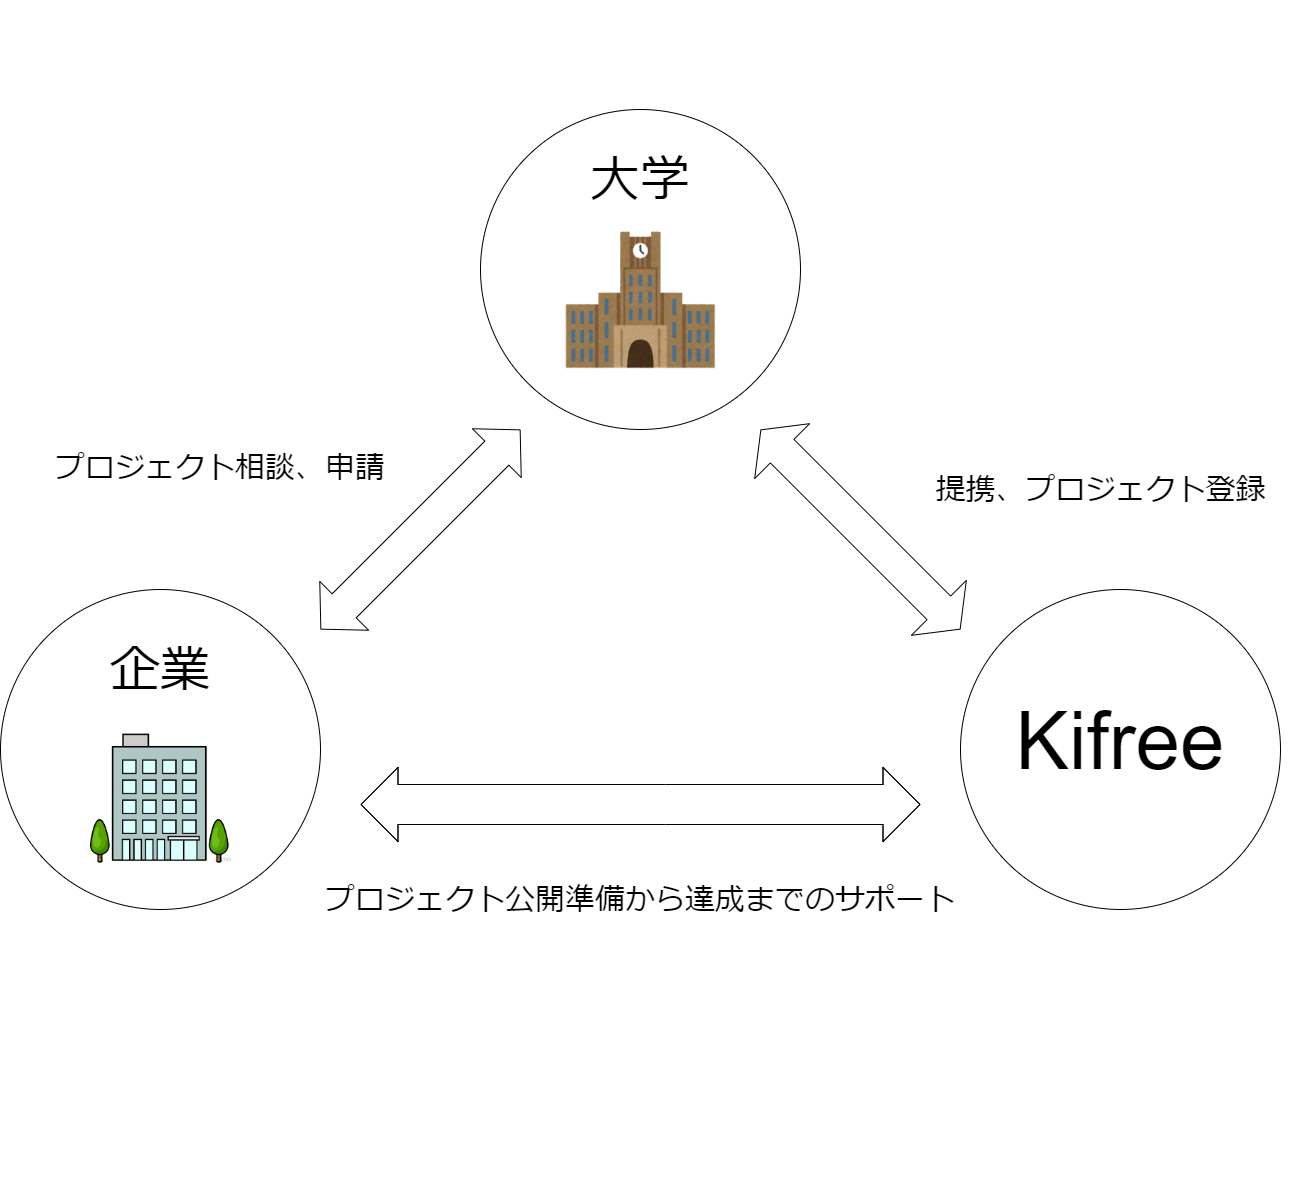
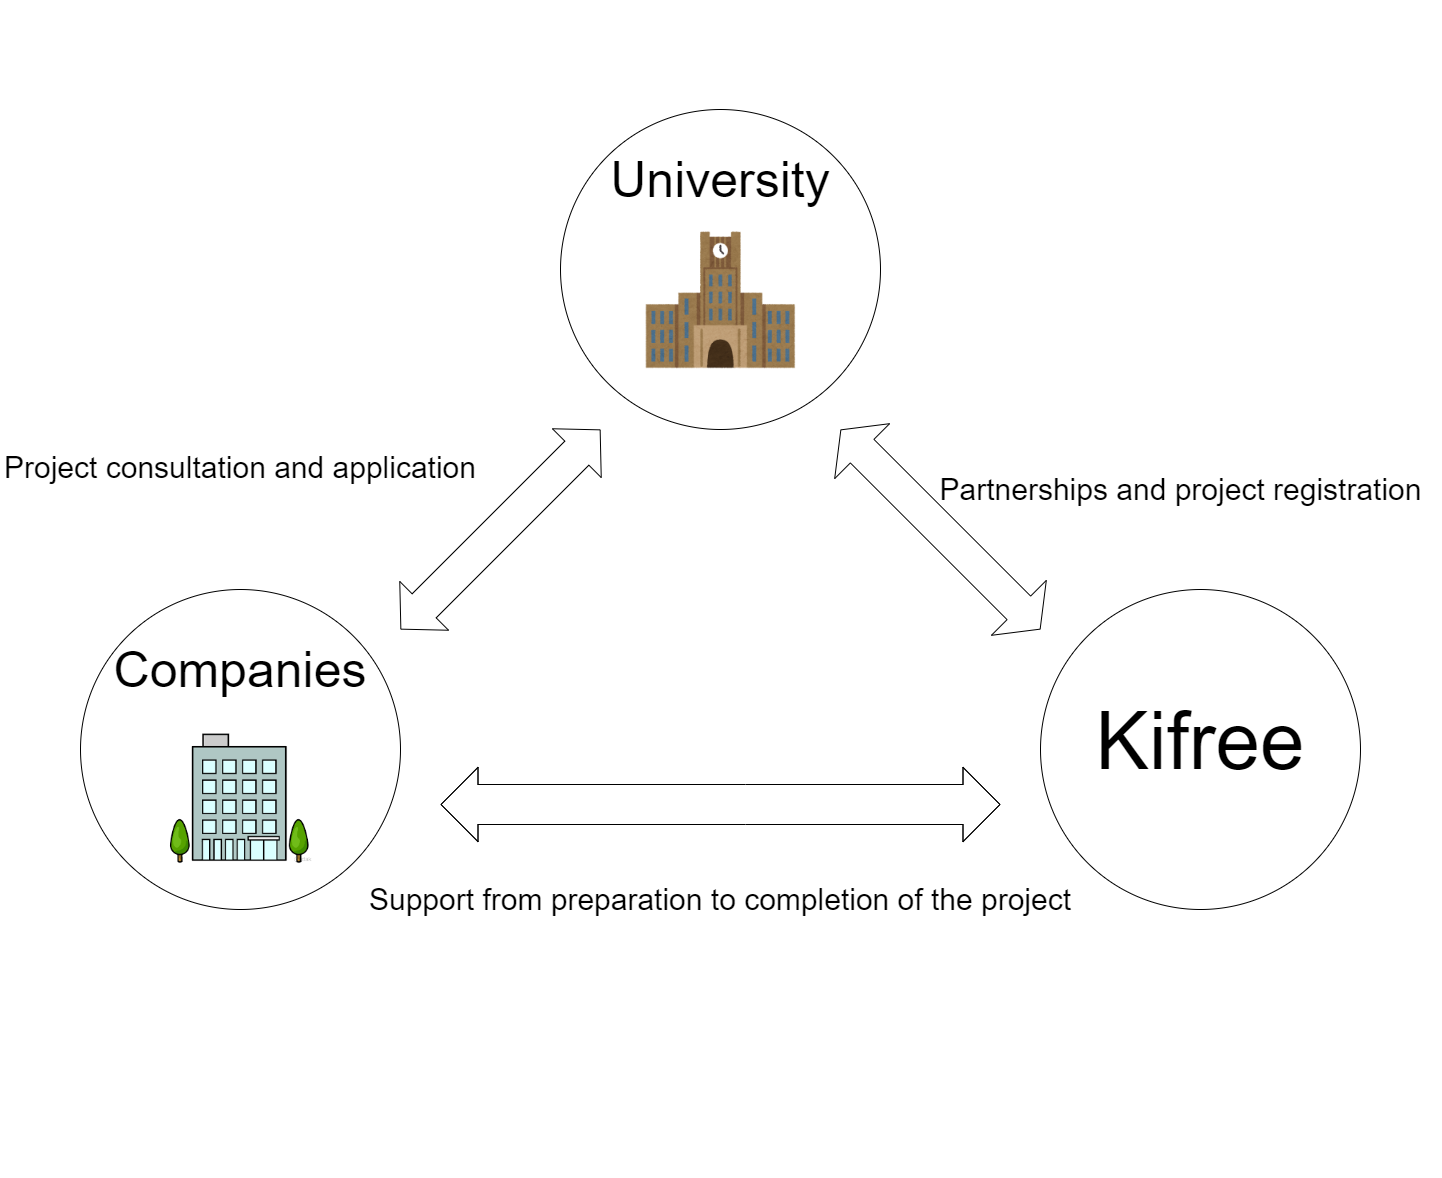
Add files via upload

diff --git a/index.html b/index.html
@@ -53,9 +53,9 @@
       <h1 class="page-title">Kifree</h1>
       <h2>
       <p>～Raise hand to deliver your feelings～</p>
-      <p>リアルタイムで人をつなぐ</p>
+      <p>Connecting people in real time</p>
       </h2>
-      <a href="#home2" class="btn-circle-fishy">Kifreeとは</a>
+      <a href="#home2" class="btn-circle-fishy">What is Kifree?</a>
 
 
 
@@ -66,22 +66,22 @@
     <div class="home-content wrapper">
     <div id="1">
       <h2 id="text-title"><a name="Kifreeとは">
-        <a class="button" href="#index">Kifreeとは？</a></a></h2>
+        <a class="button" href="#index">What is Kifree?</a></a></h2>
       <script src="index.js"></script>
 <h3 id="text2">
-助けを必要とする人は"アプリ一つで"本当に必要なモノを必要な時に、必要な量を求めることができる。
+People who need help can ask for the things they really need, when they need them, and in the quantities they need, with just one app.
 <br><br><br>
-助けることができる人は、”アプリ一つで”本当に必要なモノの情報を知ることができる。
+Those who can help will be able to get information on what they really need "with just one app.
 <br><br><br>
-そして、”アプリ一つで”支援ができる。
+And you can help them "with just one app.
 <br><br><br>
-変化する状況が”アプリ一つで”リアルタイムで確認できる。
+You can check the changing situation in real time "with just one app".
 <br><br><br>
-バランスが崩れた時も、アプリが自動で最適化
+The app automatically optimizes itself even when the balance is off.
 <br><br><br>
-人と人の繋がりが世界を救う時代のパイオニア
+Pioneering an era in which people-to-people connections will save the world
 <br><br><br>
-<p id="itiskifree">それが・・・『Kifree』</p>
+<p id="itiskifree">That is... "Kifree".</p>
 
 </h3>
 
@@ -91,7 +91,7 @@
 <div id="2">
  <div id="home3" class="big-bg">
    <p class="e">Kifree Point</p>
-   <h2 class="f">Kifreeの強み</h2>
+   <h2 class="f">Strengths of Kifree</h2>
   <div class="home-content">
    <div class="container-fulid">
     <div class="row a">
@@ -101,8 +101,7 @@
      <div class="col-12 col-md-4 ab">
       <h1>
       <img src="conect7.png" width="50px">
-      <br>研究室は時間や
-      <br>お金を節約できる
+      <br>Labs can save you time and money.
       </h1>
      </div>
      <div class="col-12 col-md-2">
@@ -118,10 +117,7 @@
      <div class="col-12 col-md-4 ab">
       <h1>
       <img src="conect7.png" width="50px">
-      <br>研究室が研究内容を
-      <br>確認することで研究室に
-      <br>対する寄付を行う価値を
-      <br>確認することができる
+      <br>The laboratory can confirm the value of making a donation to the laboratory by confirming its research.
       </h1>
      </div>
      <div class="col-12 col-md-6 a">
@@ -139,8 +135,7 @@
      <div class="col-12 col-md-4 ab">
       <h1>
       <img src="conect7.png" width="50px">
-      <br>研究室と企業が
-      <br>深く繋がる
+      <br>Laboratory and company are deeply connected.
       </h1>
      </div>
      <div class="col-12 col-md-2">
@@ -160,7 +155,7 @@
       <div id="3">
        <div class="home-content wrapper">
          <p class="g">How To Conect</p>
-       <h2 id="waytohelp">支援の流れ</h2>
+       <h2 id="waytohelp">Support Flow</h2>
         <div class="step1">
           <img src="img.png">
        </div>
@@ -170,29 +165,29 @@
 <div id="process1" class="page process">
   <div class="bg"></div>
   <div class="inner2">
-    <h2>要請する流れ</h2>
+    <h2>Requesting flow</h2>
     <ul class="process_chart">
       <li>
         <p class="fig">1</p>
-        <h3>プロジェクトの申請</h3>
-        <p class="description">まずは研究内容を登録しましょう！
+        <h3>Applying for a project</h3>
+        <p class="description">First, you need to register your research!
           <br>
-          <a href="take.html">→研究内容の登録</a>
+          <a href="take.html">→Register your research</a>
         </p>
       </li>
       <li>
         <p class="fig">2</p>
-        <h3>研究内容の公開</h3>
-        <p class="description">研究内容を発信していきましょう！</p>
+        <h3>Disclosure of research content</h3>
+        <p class="description">Let's get the word out about our research!</p>
       </li>
       <li>
         <p class="fig">3</p>
-        <h3>要請の実行</h3>
-        <p class="description">支援が成立したら研究成果を共有しましょう！</p>
+        <h3>Execution of the request</h3>
+        <p class="description">If support is granted, we'll share the results of our research!</p>
       </li>
 
       <div class="btn_start">
-        <a href="take.html">要請する</a>
+        <a href="take.html">call for</a>
       </div>
     </div>
   </div>
@@ -200,46 +195,39 @@
   <div id="process2" class="page process">
     <div class="bg_pink"></div>
     <div class="inner_2000">
-      <h2>支援の流れ</h2>
+      <h2>Support Flow</h2>
       <ul class="process_chart">
         <li>
           <p class="fig2">1</p>
-          <h3>研究室の支援</h3>
-          <p class="description">支援したい研究室を選びましょう！
+          <h3>Lab Support</h3>
+          <p class="description">Choose the lab you want to support!
             <br>
-            <a href="https://kifreeapp.z31.web.core.windows.net/requests.html">→研究室を探す</a>
+            <a href="https://kifreeapp.z31.web.core.windows.net/requests.html">→Find a lab</a>
           </p>
         </li>
         <li>
           <p class="fig2">2</p>
-          <h3>研究内容の報告を受ける</h3>
-          <p class="description">支援物資で行ったことを研究室が支援者に報告します</p>
+          <h3>Receive a report on the research</h3>
+          <p class="description">The lab will report back to the donors on what they have done with the relief supplies.</p>
         </li>
         <li>
           <p class="fig2">3</p>
-          <h3>研究内容の共有</h3>
-          <p class="description">研究成果が支援者に共有されます</p>
+          <h3>Share your research</h3>
+          <p class="description">Research results will be shared with supporters</p>
         </li>
 
         <div class="btn_end">
-          <a href="https://kifreeapp.z31.web.core.windows.net/requests.html">支援する</a>
+          <a href="https://kifreeapp.z31.web.core.windows.net/requests.html">Support.</a>
         </div>
       </div>
     </div>
 
-<div id="projects" class="page">
-  <div class="inner">
-    <p class="i">Projects</p>
-    <h2>事例</h2>
-  </div>
-</div>
-
 <div id="contact" class="page">
   <div class="inner">
     <p class="e">Contact</p>
-    <h2>お問い合わせはこちら</h2>
+    <h2>Click here to contact us.</h2>
     <a href="contact.html">
-      <p class="contact2">相談する</p>
+      <p class="contact2">Consult.</p>
     </a>
   </div>
 </div>
@@ -249,7 +237,7 @@
  <i class="fas fa-angle-double-up"></i>
 </button>
 
-<span class="abcde">TOPへ</span>
+<span class="abcde">To TOP</span>
 
 <script src="index.js"></script>
 

diff --git a/css.css b/css.css
@@ -92,16 +92,16 @@ img{
   display: inline-block;
   text-decoration: none;
   color: #FFF;
-  width: 160px;
-  height: 160px;
-  line-height: 155px;
+  width:200px;
+  height:200px;
+  line-height:200px;
   border-radius: 50%;
   text-align: center;
   overflow: hidden;
   background-image: linear-gradient(45deg, #709dff 0%, #91fdb7 100%);
   transition: .4s;
-  font-size: 25px;
-  font-weight: normal;
+  font-size:30px;
+  font-weight:300;
 }
 .button{
  color:#f6efdb;
@@ -195,18 +195,19 @@ p.e{
 h2.f{
   text-align:center;
   font-size:30px;
-  line-height:1.4em;
+  line-height:1.6em;
   transform:scale(0.95,1);
   letter-spacing:0.1em;
   position:relative;
   display:block;
-  width:300px;
-  height:60px;
+  width:400px;
+  height:70px;
   background-color:rgb(220,241,237);
   margin:0 auto;
   box-sizing:border-box;
   padding-top:10px;
   margin-bottom:50px;
+  font-weight:300;
 
 }
 
@@ -304,11 +305,11 @@ p.g{
 
 .inner2{
   position:relative;
-  width:90%;
+  width:100%;
   margin:0 auto;
   padding-bottom:100px;
   border-bottom:10px dotted rgb(97,175,154);
-  margin-top:200px;
+  margin-top:300px;
 }
 
 #process1 h2{
@@ -337,7 +338,7 @@ p.g{
   background-color:#fff;
   box-shadow:5px 5px 5px rgba(0,0,0,0.1);
   border-radius:20px;
-  height:650px;
+  height:700px;
 }
 
 .process ul li{
@@ -401,10 +402,11 @@ p.g{
   text-align:center;
   padding:20px 0;
   max-width:350px;
-  width:90%;
+  width:100%;
   box-sizing:border-box;
-  margin:30px auto 0;
+  margin:10px auto;
   color:#fff;
+  font-weight:300;
 }
 
 .bg_pink{
@@ -495,56 +497,9 @@ p.g{
   max-width:350px;
   width:90%;
   box-sizing:border-box;
-  margin:30px auto 0;
+  margin:10px auto;
   color:#fff;
-}
-
-#projects{
-  background-color:rgb(220,241,237);
-  padding-bottom:50px;
-  padding-top:50px;
-  margin-top:40px;
-}
-
-.inner{
-  position:relative;
-  width:1000px;
-  margin:0 auto;
-  padding-bottom:0px;
-}
-
-p.i{
-  position:relative;
-  display:block;
-  width:200px;
-  height:50px;
-  background-color:#fff;
-  margin:0 auto;
-  box-sizing:border-box;
-  font-family:"Sawarabi Gothic";
-  font-size:20px;
-  text-align:center;
-  letter-spacing:0.1em;
-  padding-top:10px;
-  margin-bottom:50px;
-}
-
-#projects h2{
-  margin-bottom:40px;
-  text-align:center;
-  font-size:30px;
-  line-height:1.4em;
-  transform:scale(0.95,1);
-  letter-spacing:0.1em;
-  background-color:#fff;
-  width:200px;
-  height:60px;
-  position:relative;
-  display:block;
-  margin:0 auto;
-  box-sizing:border-box;
-  font-family:"Sawarabi Gothic";
-  padding-top:10px;
+  font-weight:300;
 }
 
 #contact{
